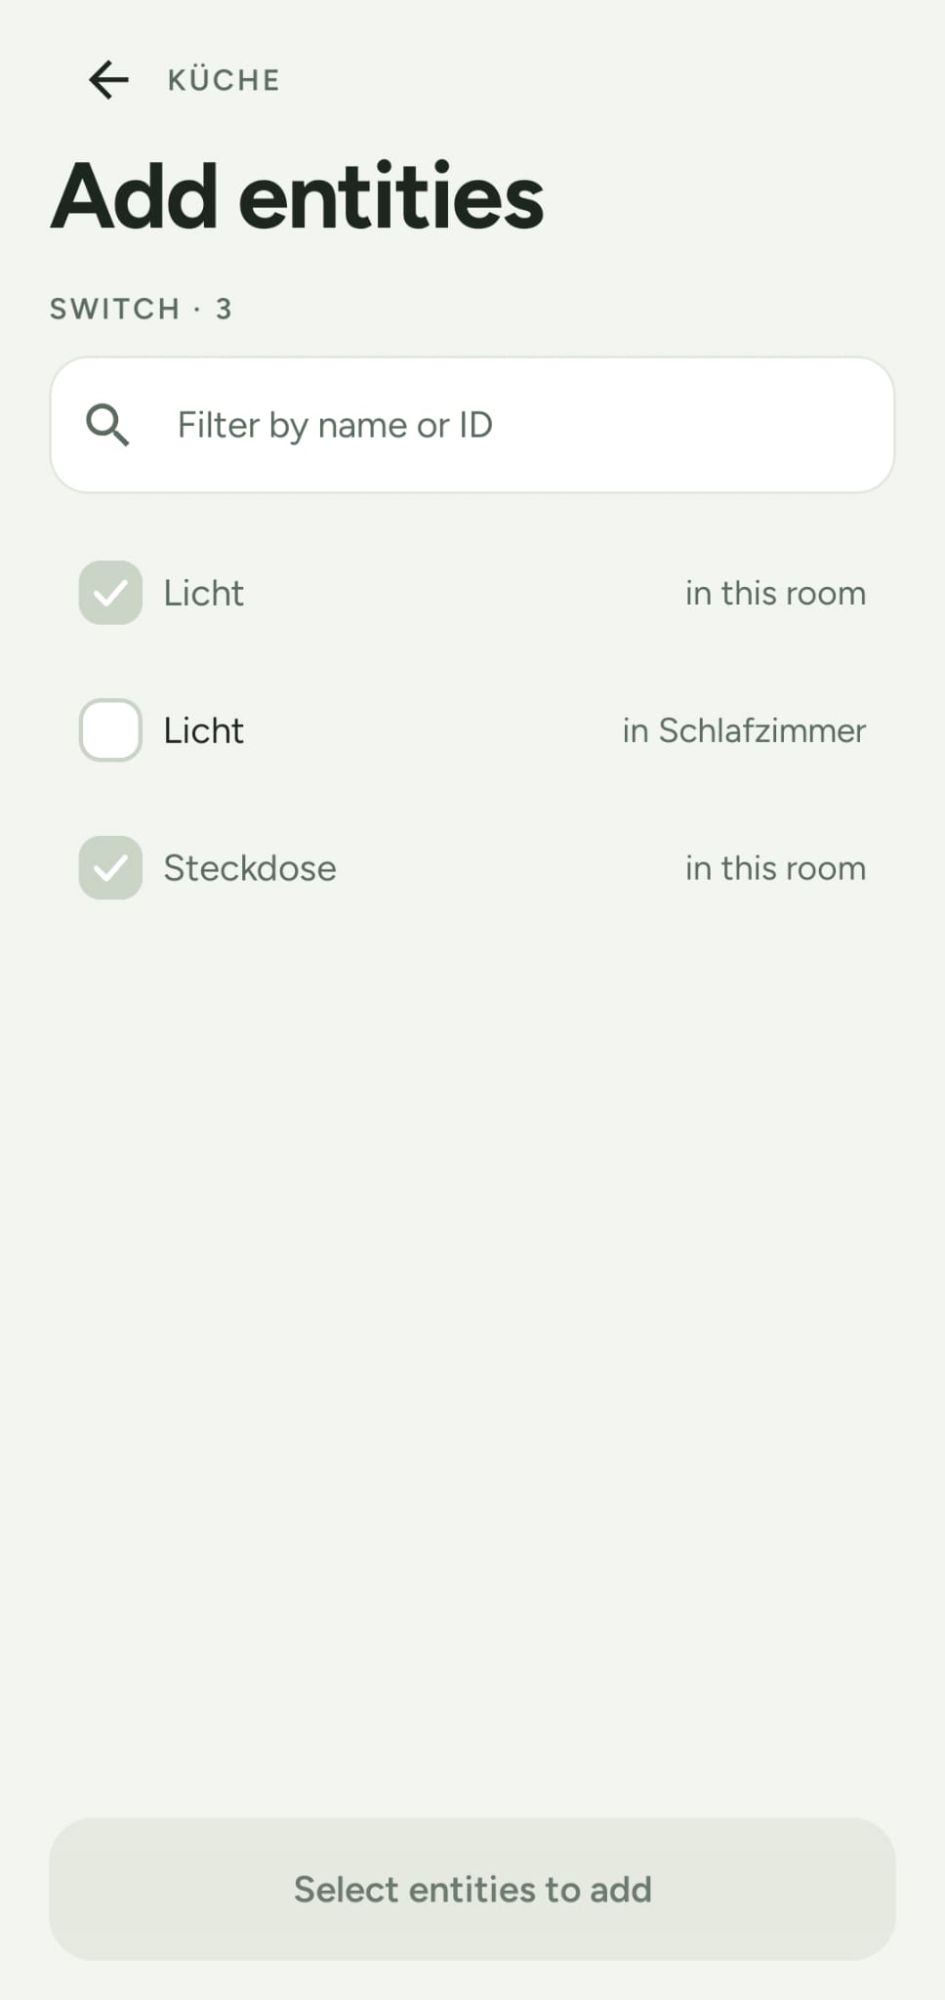
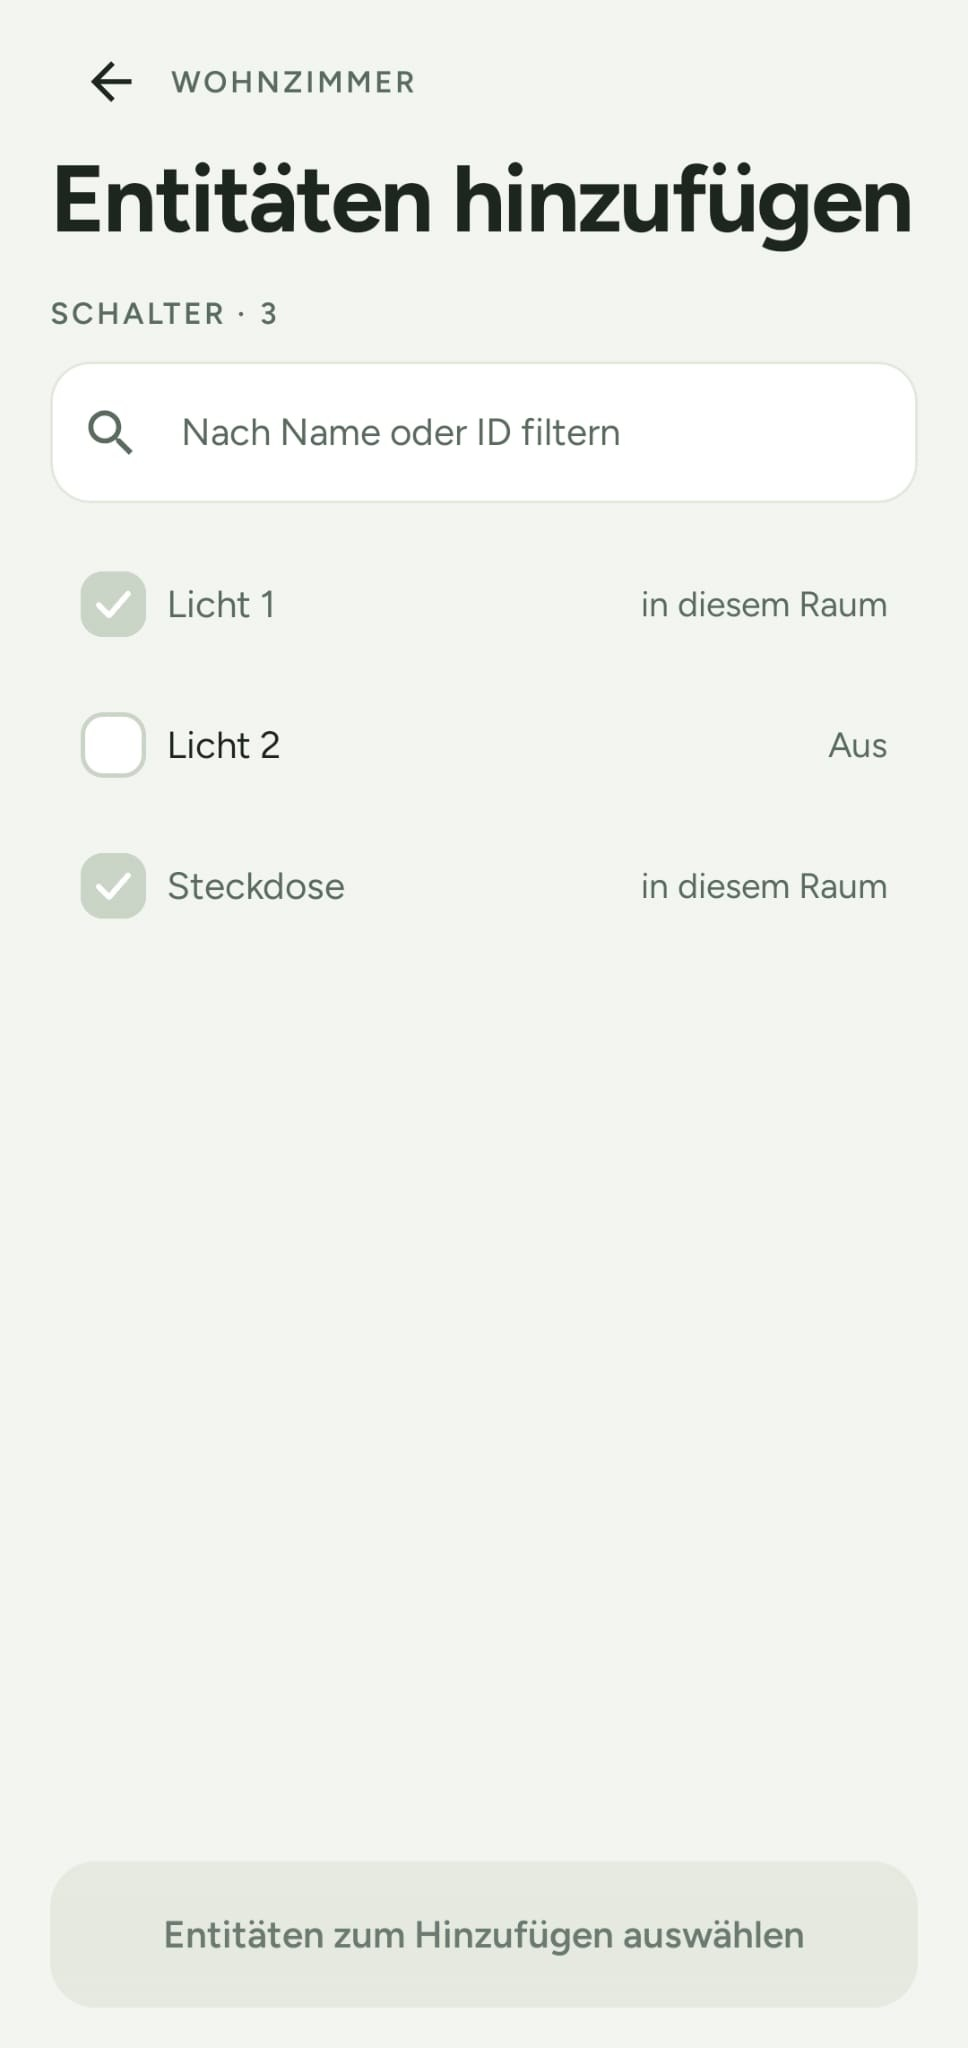
docs: use the German screenshots in the README and drop the English Play images

diff --git a/docs/play-store-listing.md b/docs/play-store-listing.md
@@ -1,4 +1,4 @@
-# Google Play listing – HAAC (HA Android Client)
+# Google Play listing – HAAC (HA Android Client)
 
 Texts and answers for the Play Console (concept 14.4). Nothing in this file is a promise to Google that the maintainer has not checked: the answers in sections 4 and 5 describe what the app does today and must be re-checked against the Play Console wording before they are submitted. Review them again whenever the app starts to collect or send new data.
 
@@ -8,7 +8,7 @@ Texts and answers for the Play Console (concept 14.4). Nothing in this file is a
 | --- | --- |
 | App name (max. 30 characters) | `HAAC – HA Android Client` |
 | Package name | `com.stacknoise.haac` |
-| Default language | English (United States); add German (Germany) |
+| Default language | German (Germany), because the graphics exist only in German; add English (United States) with the English texts below, it then shows the German graphics until English ones are uploaded |
 | App or game | App |
 | Free or paid | Free |
 | Category | House & Home (alternative: Tools) |
@@ -175,12 +175,11 @@ Option 2 is the more cautious one and is the usual choice for apps that connect 
 | Asset | Requirement | State |
 | --- | --- | --- |
 | App icon | 512 × 512 PNG, up to 1 MB | Ready: `docs/icons/playstore-icon-512.png` |
-| Feature graphic | 1024 × 500 JPEG or 24-bit PNG | Ready: `docs/play/feature-graphic.png` (1024 × 500) |
-| Phone screenshots | 2 to 8; JPEG or 24-bit PNG; each side 320 to 3840 px; the longer side at most twice the shorter | English: five files in `docs/play/screenshots` (1100 × 2150, 24-bit PNG): rooms, places, add entities, edit layout, sign in; a schedules screenshot is missing there. German: six files in `docs/play/de/screenshots` (rooms, places, add entities, edit layout, schedules, sign in) |
-| Feature graphic (German) | 1024 × 500 | Ready: `docs/play/de/feature-graphic.png` |
+| Phone screenshots | 2 to 8; JPEG or 24-bit PNG; each side 320 to 3840 px; the longer side at most twice the shorter | Ready, German: six files in `docs/play/de/screenshots` (1100 × 2150, 24-bit PNG): rooms, places, add entities, edit layout, schedules, sign in. There is no English set yet |
+| Feature graphic | 1024 × 500 JPEG or 24-bit PNG | Ready, German: `docs/play/de/feature-graphic.png` |
 | 7-inch / 10-inch tablet screenshots | Optional | Tablet and landscape are not designed (concept 15.4) |
 
-Screenshots to submit, in this order: Rooms, Places, Add entities, Edit layout, Schedules, Sign in (the German set has all six). Do not show real names or addresses. The English files are generated from the screenshots in `docs/screenshots`, the German ones from phone screenshots taken in the German app (the IP address on the sign-in screen is pixelated) (headline above the unchanged screen, 2:1 limit respected); the generated PNGs are the ones to upload.
+Screenshots to submit, in this order: Rooms, Places, Add entities, Edit layout, Schedules, Sign in. Do not show real names or addresses. The files are generated from phone screenshots taken in the German app (the IP address on the sign-in screen is pixelated) (headline above the unchanged screen, 2:1 limit respected); the generated PNGs are the ones to upload.
 
 ## 7. Release steps in the Play Console
 

diff --git a/README.md b/README.md
@@ -28,12 +28,11 @@ This limits what the app shows and controls. It is not a Home Assistant permissi
   <tr>
     <td align="center"><img src="docs/screenshots/add-entities.jpg" width="220" alt="Add entities"><br>Add entities</td>
     <td align="center"><img src="docs/screenshots/places.jpg" width="220" alt="Places"><br>Places</td>
-    <td align="center"><img src="docs/screenshots/places-speed-dial.jpg" width="220" alt="Places create menu"><br>Create menu</td>
-  </tr>
-  <tr>
-    <td align="center"><img src="docs/screenshots/schedule-detail.webp" width="220" alt="Schedule detail"><br>Schedule</td>
+    <td align="center"><img src="docs/screenshots/schedule-editor.jpg" width="220" alt="New schedule"><br>New schedule</td>
   </tr>
 </table>
+
+The screenshots show the German interface; the app follows the system language.
 
 ## Features
 
